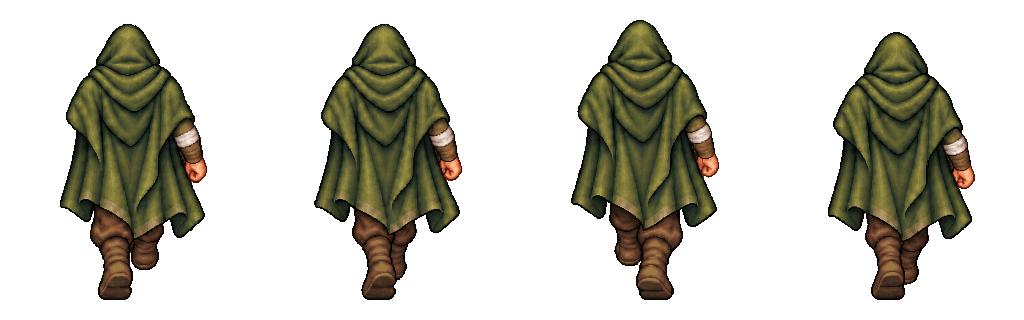
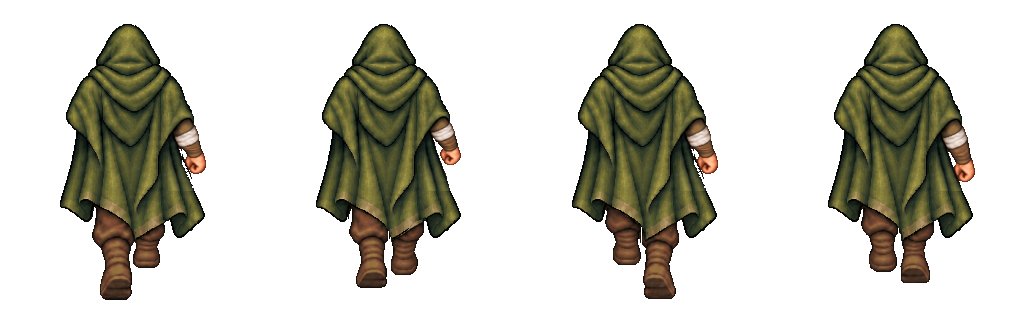
Stabilize rear druid walk and add a restrained free-arm swing

diff --git a/scripts/prepare-druid-back-detailed.py b/scripts/prepare-druid-back-detailed.py
@@ -13,6 +13,14 @@ SIZE = (256, 320)
 BASELINE = 300
 LIFT = (0, 6, 12, 6)
 FRAME_MS = 240
+BOOT_CENTERS = (115, 147)
+LEG_SPLITS = (134, 130, 130, 130)
+ARM_REGION = (168, 112, 215, 191)
+# Lower contour of the accepted first cloak, including its black outline.
+# This removes the old legs without removing fabric or its pointed hem.
+LEG_OPENING = [(94, 207), (100, 209), (110, 214), (120, 219), (130, 228),
+               (136, 239), (139, 239), (145, 234), (150, 231), (155, 226),
+               (160, 221), (165, 219), (168, 217), (170, 320), (90, 320), (90, 227)]
 # Reuse the accepted front proposal's sizing, palette and solid-cloth helpers.
 front = runpy.run_path(str(ROOT / 'scripts/prepare-druid-front-detailed.py'))
 
@@ -71,13 +79,107 @@ def staff_cutout(source):
     return Image.fromarray(data)
 
 
+def corrected_bodies(original_body):
+    """Fixed accepted torso plus drawn arm/legs, registered independently.
+
+    Never align the torso to a swinging boot. Each complete visible leg is
+    translated horizontally once to its fixed walking lane, without stretching
+    or changing the drawn hip/knee motion. The cloak occludes its upper root.
+    """
+    source = Image.open(OUT / 'walk-gait-source.png').convert('RGBA')
+    arm_source = Image.open(OUT / 'walk-free-arm-source.png').convert('RGBA')
+    if source.size != (512, 640):
+        raise ValueError('Gait source must contain four native 256x320 cells, 2x2.')
+    if arm_source.size != (188, 79):
+        raise ValueError('Arm source must contain four native 47x79 regions.')
+    opening = Image.new('L', SIZE)
+    ImageDraw.Draw(opening).polygon(LEG_OPENING, fill=255)
+    data = np.array(original_body)
+    data[np.array(opening) > 0] = 0
+    left, top, right, bottom = ARM_REGION
+    data[top:bottom, left:right] = 0
+    cloak = Image.fromarray(data)
+    frames, leg_frames, arm_frames, registrations = [], [], [], []
+    yy, _ = np.indices((SIZE[1], SIZE[0]))
+    for i in range(4):
+        x, y = (i % 2) * SIZE[0], (i // 2) * SIZE[1]
+        data = np.array(source.crop((x, y, x + SIZE[0], y + SIZE[1])))
+        data[:, :, 3] = np.where(data[:, :, 3] >= 128, 255, 0)
+        drawn = front['match_cloth'](Image.fromarray(data))
+        data = np.array(drawn)
+        legs = Image.new('RGBA', SIZE)
+        registration = []
+        split = LEG_SPLITS[i]
+        for (x0, x1), target in zip([(90, split), (split, 170)], BOOT_CENTERS):
+            leg = np.zeros_like(data)
+            leg[200:, x0:x1] = data[200:, x0:x1]
+            alpha = leg[:, :, 3] > 0
+            last = int(np.where(alpha)[0].max())
+            # Bottom eight rows measure the boot sole, not the swinging thigh.
+            sole_x = np.where(alpha & (yy >= last - 7))[1]
+            center = int(np.rint(np.median(sole_x)))
+            dx = target - center
+            shifted = Image.new('RGBA', SIZE)
+            shifted.paste(Image.fromarray(leg), (dx, 0))
+            legs.alpha_composite(shifted)
+            registration.append({'soleX': target, 'sourceSoleX': center, 'offsetX': dx,
+                                 'lowestPixelY': last})
+        # The arm region also restores the small piece of cloak behind the
+        # changing elbow. It is a drawn patch, not an isolated floating hand.
+        arm = Image.new('RGBA', SIZE)
+        # Both neutral phases use one drawing. Foreshorten the leather
+        # forearm by five pixels while keeping shoulder, cuff and fist size.
+        # This puts the neutral hand between the forward/back endpoints.
+        arm_index = 0 if i == 2 else i
+        patch = arm_source.crop((47 * arm_index, 0, 47 * (arm_index + 1), 79))
+        pixels = np.array(patch)
+        pixels[:, :, 3] = np.where(pixels[:, :, 3] >= 128, 255, 0)
+        patch = Image.fromarray(pixels)
+        if i in (0, 2):
+            projected = Image.new('RGBA', patch.size)
+            projected.paste(patch.crop((0, 0, 47, 35)), (0, 0))
+            projected.paste(patch.crop((0, 35, 47, 45)).resize((47, 5), Image.Resampling.NEAREST), (0, 35))
+            projected.paste(patch.crop((0, 45, 47, 79)), (0, 40))
+            py, px = np.indices((79, 47))
+            for im, erase in [(patch, True), (projected, False)]:
+                hsv = np.array(im.convert('RGB').convert('HSV'))
+                values = np.array(im)
+                green = (hsv[:, :, 0] >= 32) & (hsv[:, :, 0] <= 110) & (hsv[:, :, 1] > 55)
+                limb = (values[:, :, 3] > 0) & ~green & (px >= 14) & (py >= 35)
+                pixels[limb] = 0 if erase else values[limb]
+            patch = Image.fromarray(pixels)
+        # Discard tiny detached outline remnants from the shorter projected
+        # forearm. Never erase pixels inside the connected limb or cloak.
+        pixels = np.array(patch)
+        components, _ = label(pixels[:, :, 3] > 0, np.ones((3, 3)))
+        counts = np.bincount(components.ravel())
+        tiny = np.flatnonzero((counts > 0) & (counts <= 3))
+        tiny = tiny[tiny != 0]
+        pixels[np.isin(components, tiny)] = 0
+        patch = Image.fromarray(pixels)
+        arm.paste(front['match_cloth'](patch), (left, top))
+        body = legs.copy()
+        body.alpha_composite(cloak)
+        body.alpha_composite(arm)
+        frames.append(body)
+        leg_frames.append(legs)
+        arm_frames.append(arm)
+        registrations.append(registration)
+    save(cloak, 'walk-fixed-cloak-256x320.png')
+    save(front['strip'](leg_frames), 'walk-legs-256x320.png')
+    save(front['strip'](arm_frames), 'walk-right-arm-region-256x320.png')
+    return frames, registrations
+
+
 def main():
     source = Image.open(OUT / 'walk-source.png').convert('RGBA')
     bodies = poses(Image.open(OUT / 'walk-body-source.png').convert('RGBA'))
     original = poses(source)[0]
     scale = 280 / max(p['ground'] - p['top'] for p in bodies)
-    body_frames = [front['opaque_body'](front['match_cloth'](
-        front['render'](p['image'], p['anchorX'], p['ground'], scale))) for p in bodies]
+    first = bodies[0]
+    fixed_body = front['opaque_body'](front['match_cloth'](
+        front['render'](first['image'], first['anchorX'], first['ground'], scale)))
+    body_frames, leg_registration = corrected_bodies(fixed_body)
     master = front['render'](staff_cutout(source), original['anchorX'], original['ground'], scale)
     planted_offset = BASELINE - master.getbbox()[3]
     frames, staff_frames = [], []
@@ -99,12 +201,18 @@ def main():
                        duration=FRAME_MS, loop=0, disposal=2, optimize=False)
     metadata = {'integrated': False, 'direction': 'up', 'frameWidth': 256, 'frameHeight': 320,
         'frameCount': 4, 'frameDurationMs': FRAME_MS, 'previewScale': 1, 'baselineY': BASELINE,
-        'scale': scale, 'registration': 'hood center, independent of feet and staff',
+        'scale': scale, 'registration': 'fixed first torso; drawn legs in fixed vertical lanes',
+        'gait': {'source': 'walk-gait-source.png', 'torsoFixed': True, 'torsoOffsetY': [0, 0, 0, 0],
+                 'bootSoleCentersX': list(BOOT_CENTERS), 'legRegistration': leg_registration,
+                 'rightArmRegion': list(ARM_REGION), 'armSource': 'walk-free-arm-source.png',
+                 'neutralArmForearmForeshorteningPx': 5},
         'anchors': [{k: v for k, v in p.items() if k != 'image'} for p in bodies],
         'staff': {'anatomicalHand': 'left', 'screenSide': 'left', 'rigidMaster': True,
                   'liftPixels': list(LIFT), 'plantedOffsetY': planted_offset,
                   'plantsPerCycle': 1, 'stepsPerCycle': 2},
-        'sources': ['walk-source.png', 'walk-body-source.png'],
+        'sources': ['walk-source.png', 'walk-body-source.png', 'walk-gait-source.png', 'walk-free-arm-source.png'],
+        'bodyLayersBackToFront': ['walk-legs-256x320.png', 'walk-fixed-cloak-256x320.png',
+                                  'walk-right-arm-region-256x320.png'],
         'layersBackToFront': ['walk-arm-staff-256x320.png', 'walk-body-256x320.png']}
     (OUT / 'art.json').write_text(json.dumps(metadata, indent=2) + '\n')
     print('Rear Basic 04 proposal: 4 × 256x320, 240 ms, one staff plant per two steps; not integrated.')

diff --git a/docs/art/druid-back-refinement-v1/README.md b/docs/art/druid-back-refinement-v1/README.md
@@ -6,17 +6,24 @@
 - [Четыре кадра рядом — PNG](walk-up-frames-preview.png).
 - [Прозрачная полоса 1024×320](walk-up-256x320.png).
 
-Четыре полные позы нарисованы по принятому подробному Basic 04. Ракурс строго со спины: капюшон, длинный тёплый оливковый плащ, коричневые сапоги без шнуровки. Лица и переднего узла сзади не видно. Нет сумок, подвесок, растений и украшений. Ноги чередуются, свободная правая рука немного движется. Положение корпуса выравнивается по центру капюшона, а не по перемещающимся ногам. Горизонтального наклона и программного вращения нет.
+Ракурс строго со спины: капюшон, длинный тёплый оливковый плащ, коричневые сапоги без шнуровки. Лица и переднего узла сзади не видно. Нет сумок, подвесок, растений и украшений.
 
-Посох остаётся в анатомической левой руке — со спины она **слева на изображении**. Один отделённый рисунок руки и посоха переносится целиком, без зеркалирования, изменения длины или хвата. Подъём 0 → 6 → 12 → 6 пикселей даёт **одну опору на два шага**. В заднем ракурсе плащ перекрывает часть руки и древка.
+После оценки первого цикла исправлены подпрыгивание, боковое смещение ног и почти неподвижная свободная рука. Теперь основа корпуса и плаща взята из **одной первой позы**, без покадровой вертикальной привязки к сапогам. Капюшон и верх корпуса совпадают по пикселям во всех кадрах. Ноги и свободная правая рука перерисованы отдельно: они меняют позу, а корпус остаётся на месте. Ноги передвигаются по двум постоянным вертикальным линиям: центры подошв x=115 и x=147. Перенос ног по X служит только выравниванию рисунков на этих линиях; в готовом цикле подошвы не гуляют в стороны. Наклоны, вращение и покадровое растягивание корпуса не используются.
+
+Правая рука проходит четыре фазы: нейтральная → вперёд → нейтральная → назад. Два нейтральных положения используют один рисунок; его предплечье немного укорочено в проекции, при сохранении места крепления, манжеты и размера кисти. Медиана положения светлых пикселей кисти в кадре: y=162 → 155 → 162 → 169; небольшой мах составляет около 14 пикселей. Вырезка руки включает прилегающий участок плаща, закрывающий область за меняющимся локтем.
+
+Посох остаётся в анатомической левой руке — со спины она **слева на изображении**. Принятый слой этой руки и посоха сохранён **без изменения пикселей**. Один рисунок переносится целиком, без зеркалирования, изменения длины или хвата. Подъём 0 → 6 → 12 → 6 пикселей даёт **одну опору на два шага**. В заднем ракурсе плащ перекрывает часть руки и древка.
 
 Кадр **256×320**, опорная строка y=300. GIF показана в родном размере ×1: четыре кадра по **240 мс**, цикл **960 мс**, единая палитра 256 цветов без дизеринга. Прозрачные PNG сохраняют полные цвета, альфа 0/255. Ткань и обувь приведены к фактическим цветам Basic 04 тем же способом, что во фронтальном варианте.
 
 ## Подготовка
 
-- [Исходные новые позы](walk-source.png).
-- [Тела с восстановленным плащом под рукой и посохом](walk-body-source.png).
-- Слои: [рука и посох](walk-arm-staff-256x320.png) → [тело поверх них](walk-body-256x320.png).
+- [Первоначальные позы — источник принятой руки с посохом](walk-source.png).
+- [Первоначальное тело — первая поза используется для неподвижной основы](walk-body-source.png).
+- [Новые рисунки ног и свободной руки, четыре ячейки 256×320](walk-gait-source.png).
+- [Уточнённые фазы свободной руки, четыре вырезки 47×79](walk-free-arm-source.png).
+- Тело собирается из слоёв: [ноги](walk-legs-256x320.png) → [неподвижная основа плаща](walk-fixed-cloak-256x320.png) → [правая рука с прилегающим фрагментом плаща](walk-right-arm-region-256x320.png).
+- Полная фигура: [принятая рука с посохом](walk-arm-staff-256x320.png) → [собранное тело поверх них](walk-body-256x320.png).
 - [Размеры, привязки и параметры цикла](art.json).
 
-Повторная сборка: `python scripts/prepare-druid-back-detailed.py` (Pillow, NumPy, SciPy). Скрипт использует общие операции размера, палитры и непрозрачной ткани из подготовки фронтального набора. Проверены четыре разных кадра, размеры, длительности GIF, двоичная прозрачность, цельность силуэтов, точное совпадение сборки из слоёв, неизменность посоха при переносе и воспроизводимость файлов. GIF и новые PNG не импортируются игрой.
+Повторная сборка: `python scripts/prepare-druid-back-detailed.py` (Pillow, NumPy, SciPy). Скрипт использует общие операции размера, палитры и непрозрачной ткани из подготовки фронтального набора. Проверены четыре разных кадра, размеры, длительности GIF, двоичная прозрачность, отсутствие отдельных фрагментов, точная сборка из слоёв, неподвижность капюшона/верхнего корпуса, постоянные центры подошв, движение кисти, сохранность принятого слоя посоха и воспроизводимость файлов. GIF и новые PNG не импортируются игрой; игровые файлы этим исправлением не менялись.

diff --git a/docs/project-notes.md b/docs/project-notes.md
@@ -13,6 +13,7 @@
 - После оценки v2 пользователь попросил опору посохом через шаг: один контакт за цикл из двух шагов. Подъём единого слоя руки/посоха изменён на 0/6/12/6 пикселей, длина и хват постоянны. В ходьбе лицо немного довернуто вправо до прямого взгляда; голова стоящего PNG по явному ответу сохранена. Верёвочный узел локально перерисован компактным, с понятным переплетением и двумя свободными концами. Последним уточнением пользователь попросил исправить узел **также в стоящем PNG**. Исходный подробный Basic 04 и карточку не менять. В ходьбе используется один рисунок узла, перемещаемый с поясом, чтобы переплетение не менялось между кадрами.
 - Пользователь принял исправленный v2 и явно попросил интеграцию. Подключены стоящий фронтальный PNG и ходьба вниз 256×320. Размер в мире 87,5×109,375 и физическое тело 20×25 сохранены. Общий игровой атлас теперь 256×320 на кадр; прежние остальные ракурсы и циклы увеличиваются ровно ×4 с NEAREST, без перерисовки. Новые направления меняются через источники и размеры кадров в `druidArt.ts`.
 - По тому же запросу подготовлена отдельная подробная GIF ходьбы вверх — `docs/art/druid-back-refinement-v1`: четыре кадра 256×320, 240 мс, выравнивание по капюшону; единый слой руки/посоха с подъёмом 0/6/12/6, одна опора на два шага. Это предложение ещё не интегрировано; W пока использует прежний Basic. Ждать оценки этой GIF до подключения. Боковые ракурсы и неподвижный боковой плащ по новым подробным образцам пока не исправлялись.
+- Первая оценка ходьбы вверх: посох и держащая его рука нравятся — их слой сохранить точно. Исправить подпрыгивание, боковой разнос ног и отсутствие маха свободной правой руки. В обновлённой GIF корпус и плащ собираются из одной неподвижной основы, ноги и правая рука нарисованы отдельно. Центры подошв закреплены на x=115/147, корпус не выравнивается по каждой движущейся стопе. Правая кисть проходит нейтральное/переднее/нейтральное/заднее положения с размахом около 14 пикселей, плечо остаётся на месте. Интеграция вверх по-прежнему ожидает оценки пользователя.
 
 ## Текущий фокус: базовый образ друида
 
